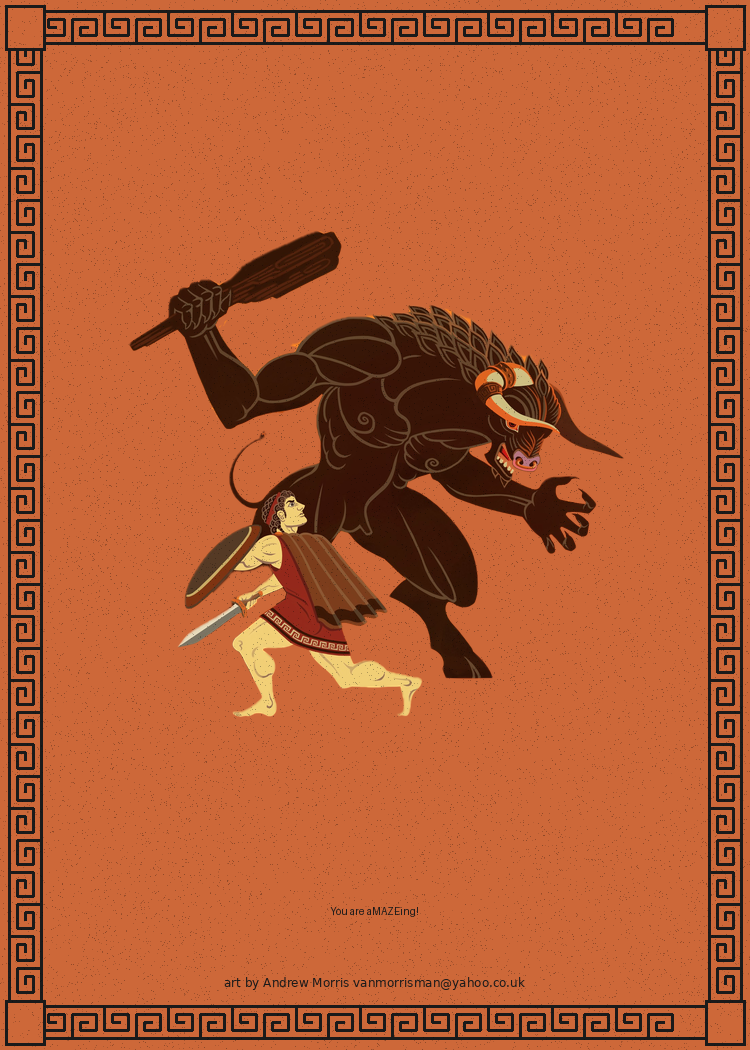
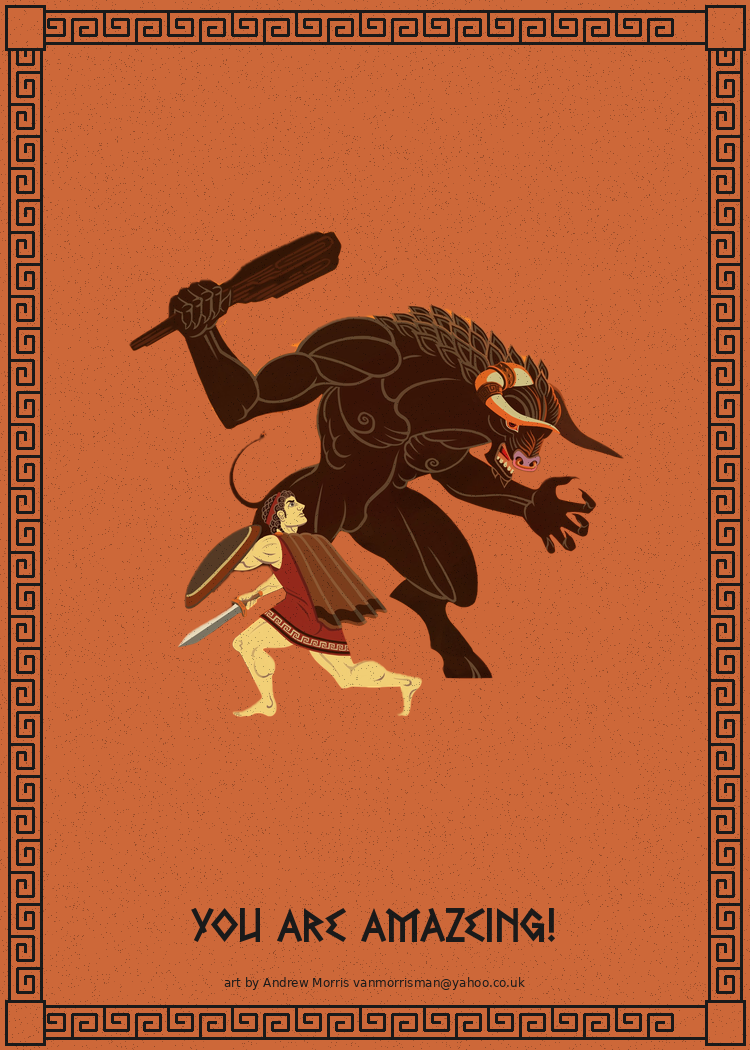
Use Greek-Freak font for Valentine's message
- Moved Greek-Freak.ttf to assets/fonts folder
- Updated script to use Greek-Freak as primary font at 48pt
- Regenerated card front with new Greek-style typography

Changed region(s): [[0.2453, 0.8533, 0.7667, 0.9143]]

diff --git a/src/greek_design_system.py b/src/greek_design_system.py
@@ -449,16 +449,16 @@ def generate_greek_card_front(
     from PIL import ImageFont
 
     # Path to custom Greek-style font
-    base_dir = os.path.dirname(__file__)
-    greek_font_path = os.path.join(base_dir, "..", "assets", "fonts", "CaesarDressing-Regular.ttf")
-    fallback_font_path = os.path.join(base_dir, "..", "assets", "fonts", "Cinzel-Bold.ttf")
+    base_dir = os.path.dirname(os.path.abspath(__file__))
+    greek_font_path = os.path.join(base_dir, "..", "assets", "fonts", "Greek-Freak.ttf")
+    fallback_font_path = os.path.join(base_dir, "..", "assets", "fonts", "CaesarDressing-Regular.ttf")
 
     try:
         # Use decorative Greek-style font
         if os.path.exists(greek_font_path):
-            greeting_font = ImageFont.truetype(greek_font_path, 52)
+            greeting_font = ImageFont.truetype(greek_font_path, 48)
         elif os.path.exists(fallback_font_path):
-            greeting_font = ImageFont.truetype(fallback_font_path, 46)
+            greeting_font = ImageFont.truetype(fallback_font_path, 52)
         else:
             greeting_font = ImageFont.truetype("/usr/share/fonts/truetype/dejavu/DejaVuSans-Bold.ttf", 42)
     except:
